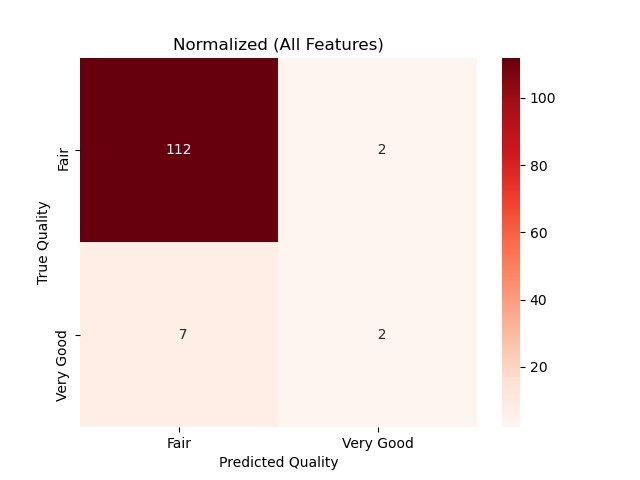
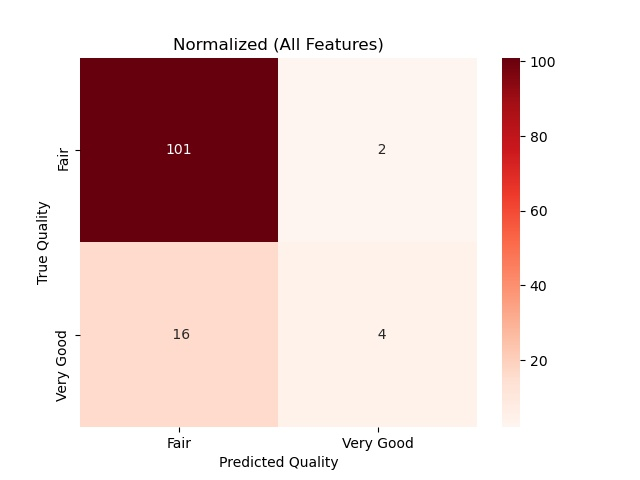
update fannie_svm.html done

diff --git a/fannie_svm.html b/fannie_svm.html
@@ -17,8 +17,8 @@
             <div id="itemDropdown" class="dropDown-Content">
                 <a href="/coco.html">Coco</a>
                 <a href="/dinnara.html">Dinnara</a>
-                <a href="/fannie_dl.html">Fannie</a>
-                <a href="/fannie_svm.html">Fannie</a>
+                <a href="/fannie_dl.html">Fannie_Deep Learning</a>
+                <a href="/fannie_svm.html">Fannie_SVM</a>
                 <a href="/jocelyn.html">Jocelyn</a>
             </div>
         </div>
@@ -48,7 +48,7 @@
                         <h5> All Features</h5>
 
                         
-                        <img src="Resources/images/svm_white_cm_nor_all.jpg" alt="svm_white_cm_all" id="other-image">
+                       <img src="Resources/images/svm_white_cm_nor_all.jpg" alt="svm_white_cm_all" id="other-image">
 
 
                         <p> 
@@ -66,28 +66,32 @@
                         <li>fixed acidity - 0.071705</li>
 
                         </ul>
-                        <h6>Findings:</h6>
+                        <h6>Target Value:</h6>
                         <ul>
                         <li>Quality - Fair and Very Good</li>
                         
                         </ul>
                             <h6>Methods:</h6>
                             <ul>
-                                <li>Training size : 0.7</li>
+                            <li>Training size : 0.7</li>
                              <li>Support Vector Classifier</li>
+                             <li>GridSearch CV</li>
+
                              
                          </ul>
                             <h6>Summary:</h6>
                             <ul>    
-                             <li>In data exploration and modeling, we utilize all features to predict the quality of wine.  We perform deep learning sequential method to receive 83 % accuracy rate.</li>  
+                             <li>In data exploration and modeling, we utilize all features to predict the quality of the wine.  We perform the Support Vector Classifier(SVC) method and use Grid Search CV tuning to achieve an 82 % accuracy rate.</li>  
 
-                             <li>There are two possible predicted classes: "Fair" and "Very Good".  If we were predicting the quality of wine, "very good" would mean to have better quality, and "fair" would mean to lower quality of wine. </li>
+                             <li>There are two possible predicted classes: "Fair" and "Very Good".  If we were predicting the quality of wine, "very good" would mean to have better quality, and "Fair" would mean to lower quality of wine. </li>
 
                             <li> The classifier made a total of 357 predictions. </li>
-                            <li> Out of those 357 cases, the classifier predicted "very good" 28 times, and "Fair" 329 times. </li>
+                            <li> Out of those 357 cases, the classifier predicted "Very Good" 28 times, and "Fair" 329 times. </li>
                             <li> In reality, 79 cases in the sample are in category of very good quality, 278 cases are not. </li>
                          </ul>
                         </p>   
+                        <br>
+                        <br>
 
                         <h5> Top Five Features</h5> 
 
@@ -97,22 +101,24 @@
 
                             <h6>Summary:</h6>
                             <ul>    
-                             <li>n data exploration and modeling, we perform importanace features methods to selecte top five features predict the quality of wine.  We perform deep learning sequential method to receive 82 % accuracy rate.</li>  
+                             <li>In data exploration and modeling, we perform important features methods to select the top five features to predict the quality of the wine.  We perform the Support Vector Classifier(SVC) method and use Grid Search CV tuning to achieve an 82 % accuracy rate.  There is no significant change after removing the lower score of features.</li>  
 
-                             <li>There are two possible predicted classes: "Fair" and "Very Good".  If we were predicting the quality of wine, "very good" would mean to have better quality, and "fair" would mean to lower quality of wine. </li>
+                             <li>There are two possible predicted classes: "Fair" and "Very Good".  If we were predicting the quality of wine, "Very Good" would mean to have better quality, and "fair" would mean to lower quality of wine. </li>
 
                             <li> The classifier made a total of 357 predictions. </li>
-                            <li> Out of those 357 cases, the classifier predicted "very good" 69 times, and "Fair" 288 times. </li>
+                            <li> Out of those 357 cases, the classifier predicted "Very Good" 22 times, and "Fair" 335 times. </li>
                             <li> In reality, 69 cases in the sample are in category of very good quality, 288 cases are not. </li>
+                            </li>
                          </ul>
+                         <br>
+                         <br>
 
                         <hr>
-                        
+
 
                         <h3>Red Wine</h3>
 
                         
-
                         <h5> All Features</h5>
                         <img src="Resources/images/svm_red_cm_nor_all.jpg" alt="svm_red_cm_all" id="other-image">
 
@@ -132,7 +138,7 @@
                         <li>pH - 0.067486</li>
                         <li>chlorides - 0.066996</li>
                         </ul>
-                            <h6>Findings:</h6>
+                            <h6>Target Value:</h6>
                         <ul>
                         <li>Quality - Fair and Very Good</li>
                         
@@ -141,20 +147,23 @@
                             <ul>
                                 <li>Training size : 0.7</li>
                              <li>Support Vector Classifier</li>
+                             <li>GridSearch CV</li>
                                                           
                          </ul>
                             <h6>Summary:</h6>
                             <ul>    
-                             <li>In data exploration and modeling, we utilize all features to predict the quality of wine.  We perform deep learning sequential method to receive 93% accuracy rate.</li>  
+                             <li>In data exploration and modeling, we utilize all features to predict the quality of the wine.  We perform the Support Vector Classifier(SVC) method and use Grid Search CV tuning to achieve an 92 % accuracy rate.</li>    
 
-                             <li>There are two possible predicted classes: "Fair" and "Very Good".  If we were predicting the quality of wine, "very good" would mean to have better quality, and "fair" would mean to lower quality of wine. </li>
+                             <li>There are two possible predicted classes: "Fair" and "Very Good".  If we were predicting the quality of wine, "Very Good" would mean to have better quality, and "Fair" would mean to lower quality of wine. </li>
 
                             <li> The classifier made a total of 123 predictions. </li>
-                            <li> Out of those 123 cases, the classifier predicted "very good" 4 times, and "Fair" 119 times. </li>
-                            <li> In reality, 9 cases in the sample are in category of very good quality, 114 cases are not. </li>
+                            <li> Out of those 123 cases, the classifier predicted "Very Good" 6 times, and "Fair" 117 times. </li>
+                            <li> In reality, 20 cases in the sample are in category of very good quality, 103 cases are not. </li>
                          </ul>
 
-                        </p>   
+                        </p>  
+                        <br>
+                        <br> 
 
                         <h5> Top Five Features</h5> 
 
@@ -162,13 +171,13 @@
                         <p>
                             <h6>Summary:</h6>
                             <ul>    
-                             <li>In data exploration and modeling, we perform importanace features methods to selecte top five features predict the quality of wine.  We perform deep learning sequential method to receive 92 % accuracy rate.</li>  
+                             <li>In data exploration and modeling, we perform important features methods to select the top five features to predict the quality of the wine.  We perform the Support Vector Classifier(SVC) method and use Grid Search CV tuning to achieve an 89 % accuracy rate.  There is a slight increase after removing the lower score of features.</li> 
 
-                             <li>There are two possible predicted classes: "Fair" and "Very Good".  If we were predicting the quality of wine, "very good" would mean to have better quality, and "fair" would mean to lower quality of wine. </li>
+                             <li>There are two possible predicted classes: "Fair" and "Very Good".  If we were predicting the quality of wine, "Very Good" would mean to have better quality, and "Fair" would mean to lower quality of wine. </li>
 
                             <li> The classifier made a total of 123 predictions. </li>
-                            <li> Out of those 123 cases, the classifier predicted "very good" 2 times, and "Fair" 121 times. </li>
-                            <li> In reality, 15 cases in the sample are in category of very good quality, 108 cases are not. </li>
+                            <li> Out of those 123 cases, the classifier predicted "Very Good" 5 times, and "Fair" 118 times. </li>
+                            <li> In reality, 13 cases in the sample are in category of very good quality, 110 cases are not. </li>
                          </ul>
                         </p>  
 
